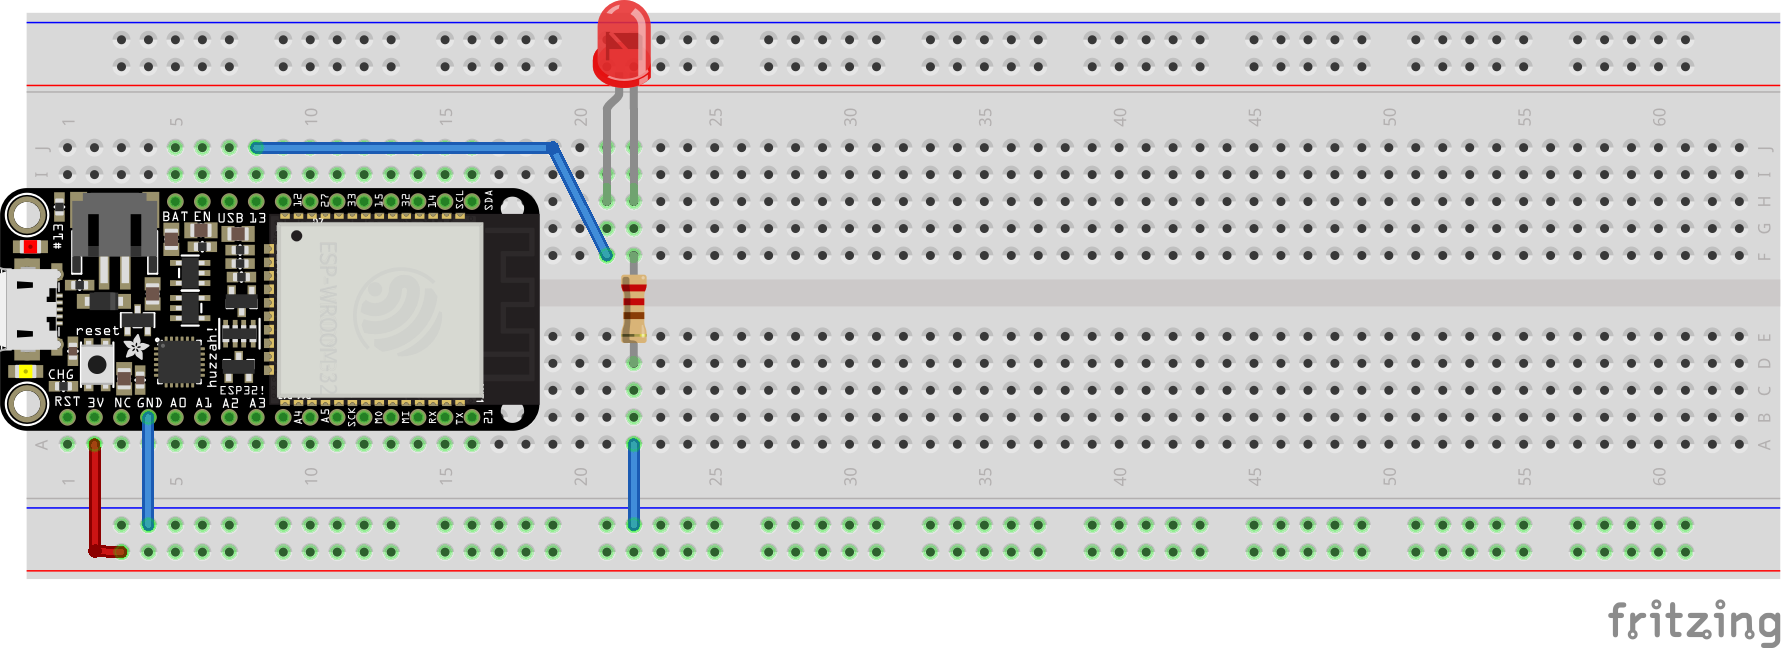
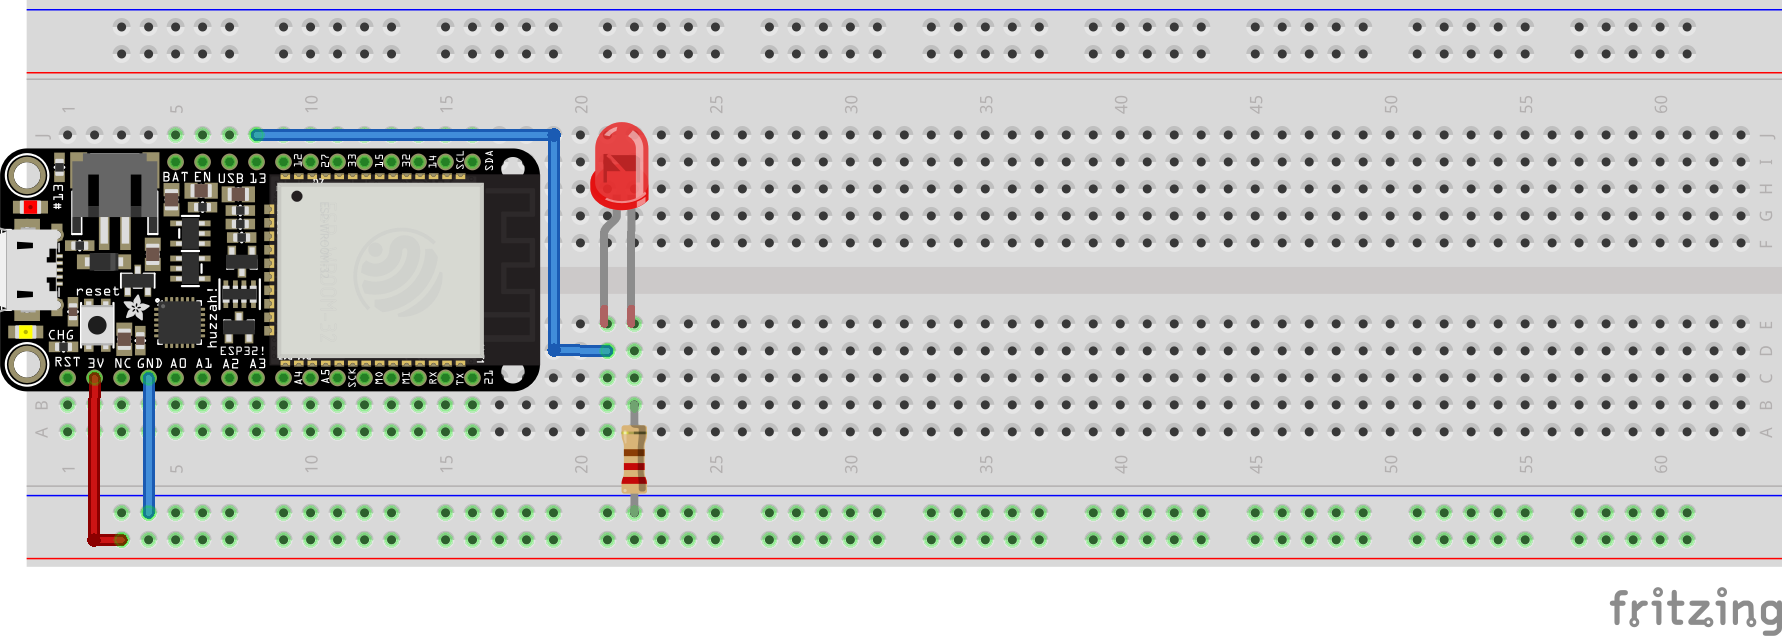
reorg week 2 and week 3, update syllabus, adds new fritzing diagrams

Changed region(s): [[0.0, 0.0, 1.0, 0.8962], [0.8951, 0.9261, 1.0, 1.0]]

diff --git a/_posts/labs/2023-01-26-digital-output.md b/_posts/labs/2023-01-26-digital-output.md
@@ -21,18 +21,32 @@ categories: labs
 
 ## basic LED circuit
 
-### Hookup Pattern
+There are two different ways to wire up a basic LED circuit to ESP32 `3V` and `GND`
+
+### Hookup Pattern (1)
 
 ![]({{site.url}}/assets/imgs/fritzing/esp32-basic-led-circuit.png)
 
 1. Connect ESP32 `GND` to a blue bus on the side of your breadboard
 2. Connect ESP32 `3V` to a red bus on the side of your breadboard
-3. Use a 220R (or similar) to run the `3V` signal to the inside of your breadboard
-4. Connect that wire to the longer of the two (this is +) LED pins, the shorter pin goes to and adjacent row
-5. Connect the shorter LED pin to `GND`
+3. Use a `220R` (or similar) to run the `3V` signal to the inside of your breadboard
+4. Connect the longer of the two LED pins to `220R`, the shorter pin goes to and adjacent row
+5. Connect the shorter LED pin to `GND` with a wire
+
+### Hookup Pattern (2)
+
+![]({{site.url}}/assets/imgs/fritzing/esp32-basic-led-circuit2.png)
+
+1. Connect ESP32 `GND` to a blue bus on the side of your breadboard
+2. Connect ESP32 `3V` to a red bus on the side of your breadboard
+3. Use a wire to run the `3V` signal to the inside of your breadboard
+4. Connect the longer of the two LED pins to the wire, the shorter pin goes to and adjacent row
+5. Connect the shorter LED pin to `GND` with a `220R`
 
 
 ## blink.py (internal LED)
+
+There is a built-in (internal) LED on the ESP32 that is tied to pin 13, the code below will cause it to rhythmically blink
 
 ```python
 '''
@@ -55,9 +69,13 @@ while True:
 
 ## blink.py (external LED)
 
+With some simple rewiring one can connect the external LED from above to pin 13 so it blinks in time with the built-in (internal) LED
+
 ### Hookup Pattern
 
 ![]({{site.url}}/assets/imgs/fritzing/esp32-external-led.png)
 
 1. Connect ESP32 `GND` to a blue bus on the side of your breadboard
-2. From pin 13, connect the following in series: an `LED` to `220R` to `GND`
+2. Connect ESP32 `3V` to a red bus on the side of your breadboard
+3. Connect a wire from ESP32 pin 13 to the longer of the two LED pins, the shorter pin goes to and adjacent row
+4. Connect the shorter LED pin to `GND` with a `220R`

diff --git a/_posts/hw/2023-02-02-paper-button-prototypes.md b/_posts/hw/2023-02-02-paper-button-prototypes.md
@@ -1,8 +1,8 @@
 ---
 layout: post
 title: "Paper Button Prototypes"
-date:   2023-01-26 07:00:00 -0800
-week: "2"
+date:   2023-02-02 07:00:00 -0800
+week: "3"
 number: "5"
 categories: hw
 ---

diff --git a/_posts/labs/2023-01-19-intro-py3.md b/_posts/labs/2023-01-19-intro-py3.md
@@ -1,7 +1,7 @@
 ---
 layout: post
 title:  "Intro Python3"
-date:   2023-01-18 06:00:00 -0300
+date:   2023-01-19 06:00:00 -0300
 week: "1"
 number: "3"
 categories: "labs"

diff --git a/_posts/labs/2023-02-02-digitalIO.md b/_posts/labs/2023-02-02-digitalIO.md
@@ -5,7 +5,7 @@ date: 2023-01-26 06:00:00 -0700
 week: 2
 number: 3
 categories: labs
-
+published: false
 ---
 
 ## Materials
